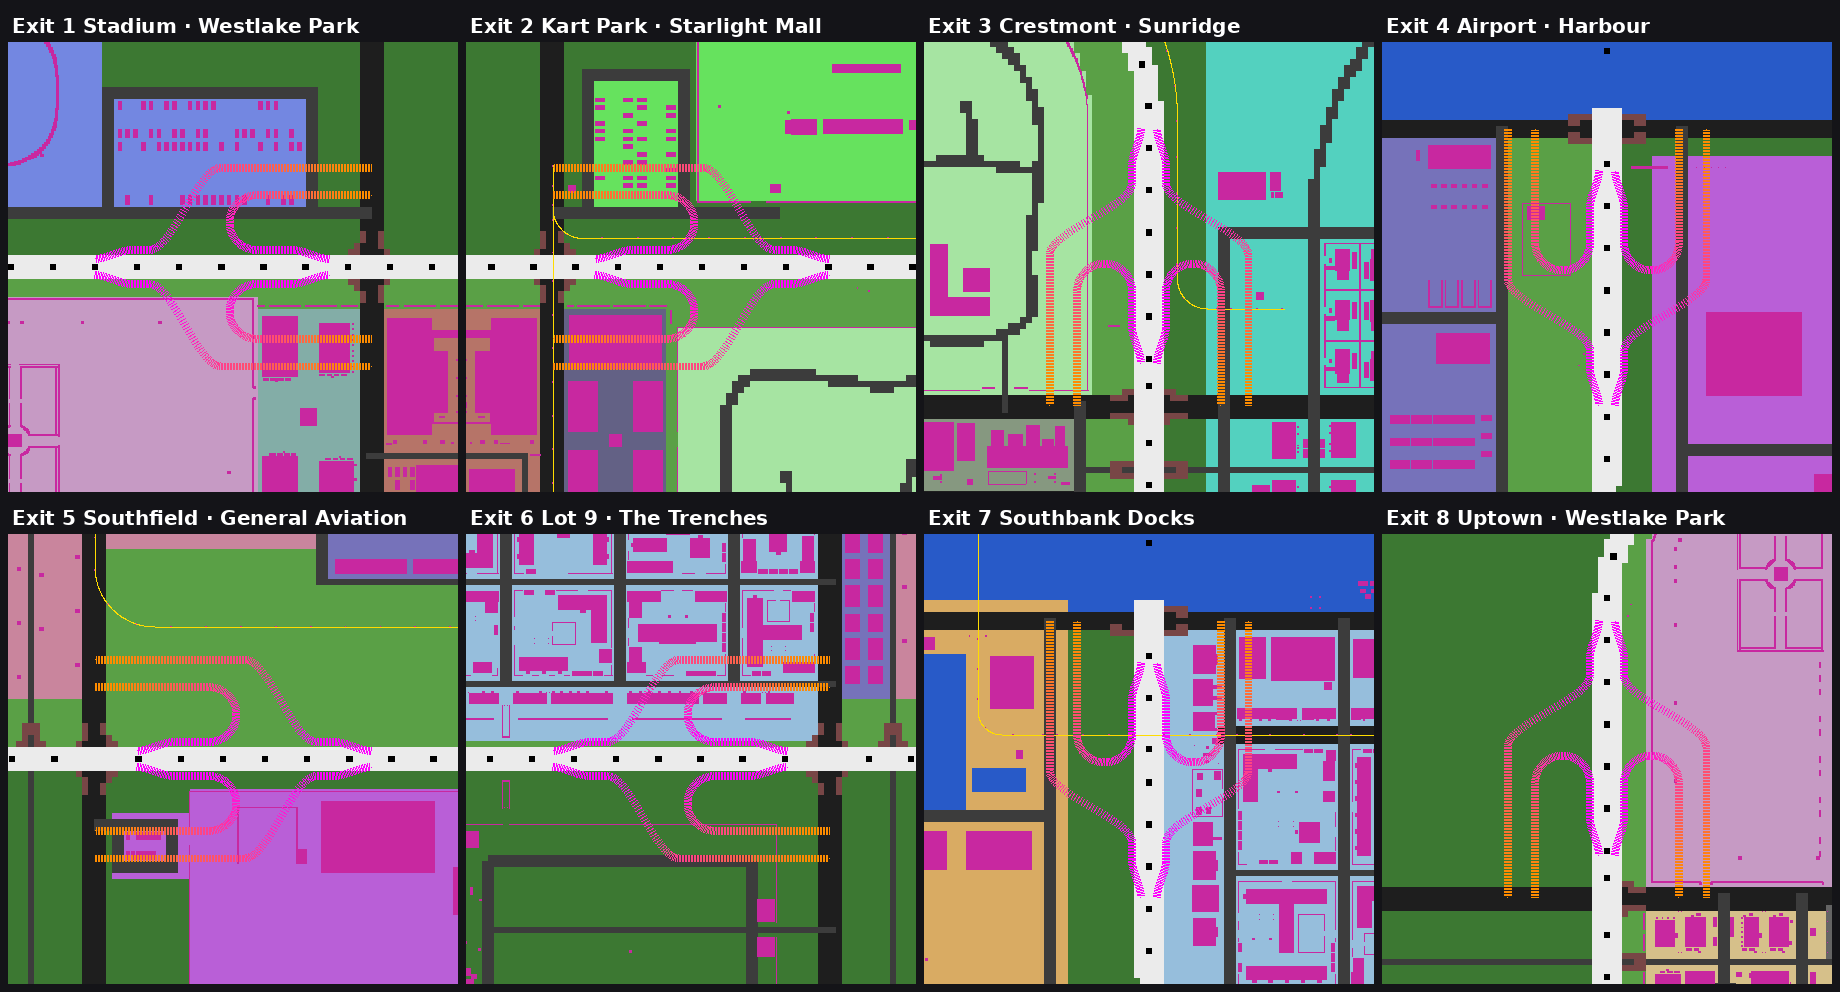
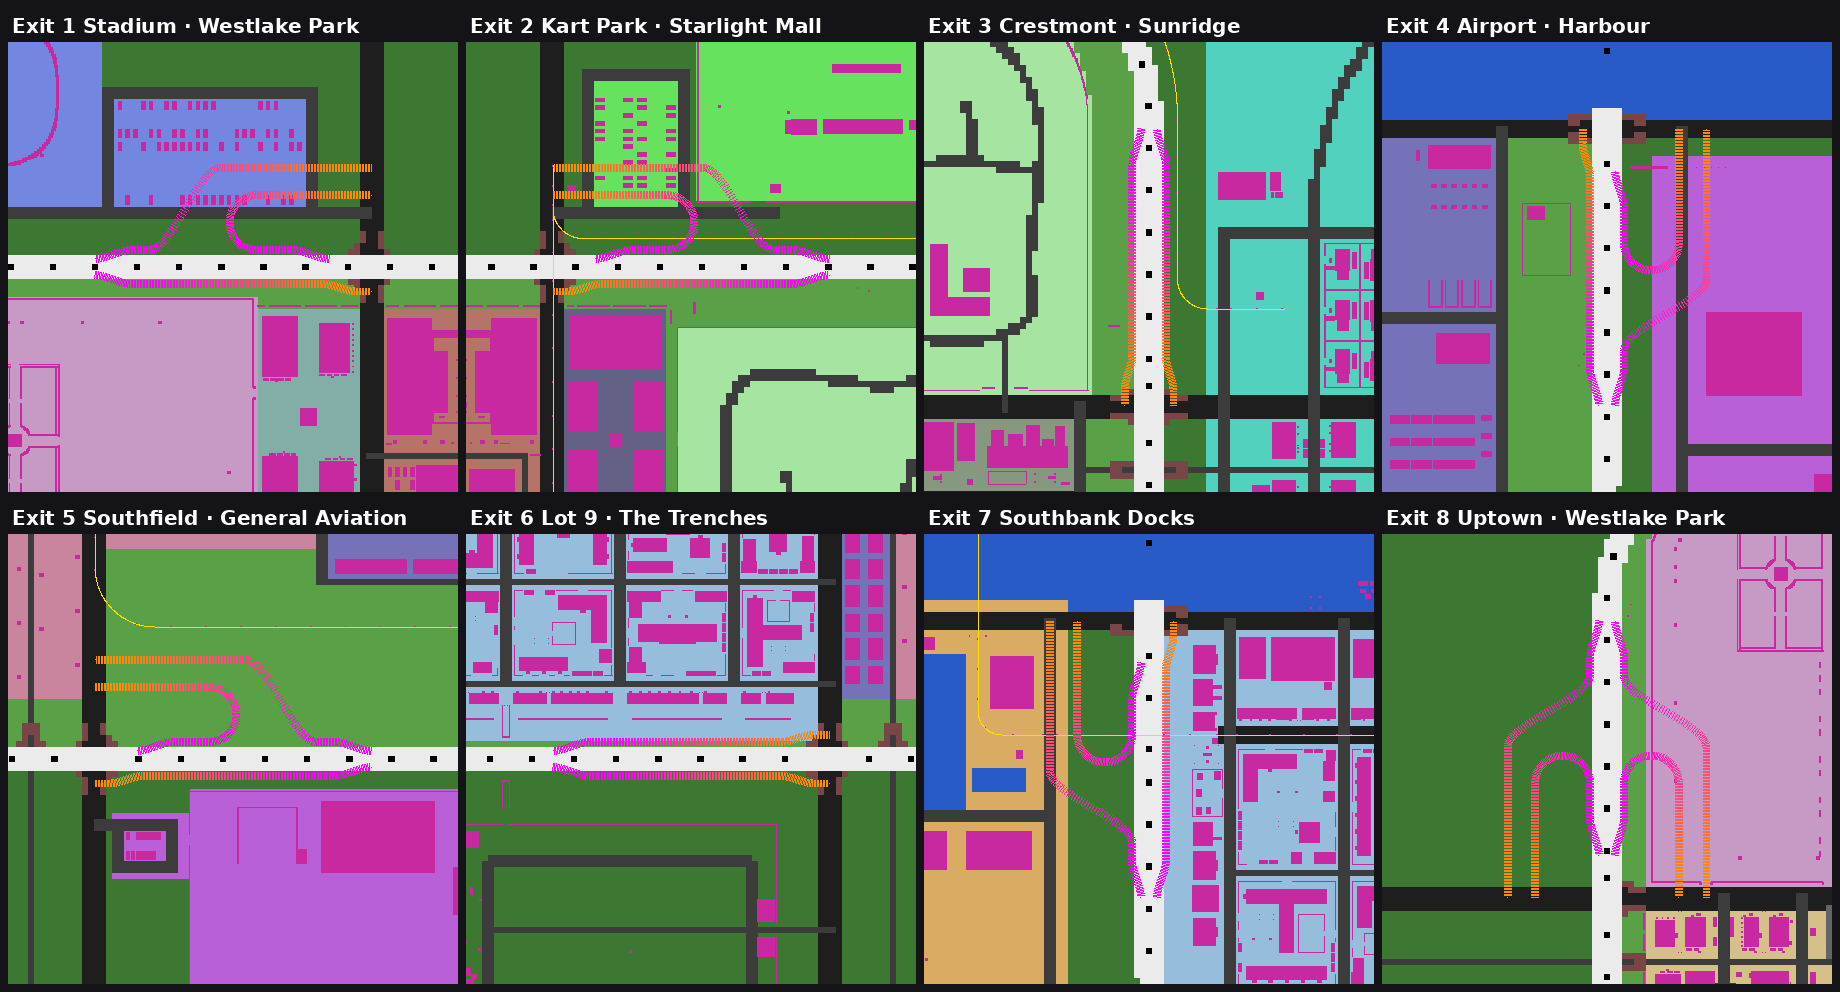
Raised highway: each exit's quadrants fitted to open land
The owner's call: only open land moves. Each quadrant of an exit is now a
full partial cloverleaf, a slip ramp alongside the deck, or none, so every
exit still gets off and on; the plan lists what moves for each.

Claude-Session: https://claude.ai/code/session_018cDkyfacaRjVFcUZ6tKWUd

diff --git a/src/scripts/city3d/viaduct.ts b/src/scripts/city3d/viaduct.ts
@@ -145,20 +145,29 @@ export interface Exit {
   name: string;
   /** The way along the ring (+1 clockwise) its ramps lie: the corner side, with room */
   side: 1 | -1;
+  /** What each quadrant holds, inside the ring and outside it (`Form`) */
+  inner: Form;
+  outer: Form;
 }
+/**
+ * A quadrant's ramps: `full`, a loop by the junction and a straight ramp round it (an off and an on); `slip`, only the
+ * straight ramp, its terminal by the deck and alongside it the whole way (where the land by the deck is narrow and
+ * what's there stays, the owner's call: open land only moves); `none`, no ramp
+ */
+export type Form = 'full' | 'slip' | 'none';
 
-/** Each exit's arterial crossing today, its names and the way its ramps lie */
-const EXIT_DATA: [string, string, Pt, string, 1 | -1][] = [
-  ['highway-ns0-1', 'ns0', [-4.5, -170], 'Stadium · Westlake Park', -1],
-  ['highway-ns3-0', 'ns3', [64.5, -170], 'Kart Park · Starlight Mall', 1],
-  ['highway-ew0-0', 'ew0', [275, -4.5], 'Crestmont · Sunridge', -1],
-  ['highway-ew4-0', 'ew4', [275, 137], 'Airport · Harbour', 1],
-  ['highway-ns3-1', 'ns3', [64.5, 320], 'Southfield · General Aviation', -1],
-  ['highway-ns0-0', 'ns0s', [-4.5, 320], 'Lot 9 · The Trenches', 1],
-  ['highway-ew4-1', 'ew4', [-215, 137], 'Southbank Docks', -1],
-  ['highway-ew0-1', 'ew0', [-215, -4.5], 'Uptown · Westlake Park', 1],
+/** Each exit's arterial crossing today, its names, the way its ramps lie and its quadrants' forms (inside, outside) */
+const EXIT_DATA: [string, string, Pt, string, 1 | -1, Form, Form][] = [
+  ['highway-ns0-1', 'ns0', [-4.5, -170], 'Stadium · Westlake Park', -1, 'slip', 'full'],
+  ['highway-ns3-0', 'ns3', [64.5, -170], 'Kart Park · Starlight Mall', 1, 'slip', 'full'],
+  ['highway-ew0-0', 'ew0', [275, -4.5], 'Crestmont · Sunridge', -1, 'slip', 'slip'],
+  ['highway-ew4-0', 'ew4', [275, 137], 'Airport · Harbour', 1, 'slip', 'full'],
+  ['highway-ns3-1', 'ns3', [64.5, 320], 'Southfield · General Aviation', -1, 'full', 'slip'],
+  ['highway-ns0-0', 'ns0s', [-4.5, 320], 'Lot 9 · The Trenches', 1, 'slip', 'slip'],
+  ['highway-ew4-1', 'ew4', [-215, 137], 'Southbank Docks', -1, 'slip', 'full'],
+  ['highway-ew0-1', 'ew0', [-215, -4.5], 'Uptown · Westlake Park', 1, 'full', 'full'],
 ];
-export const EXITS: Exit[] = EXIT_DATA.map(([crossing, street, at, name, side], i) => ({ n: i + 1, crossing, street, at, name, side }));
+export const EXITS: Exit[] = EXIT_DATA.map(([crossing, street, at, name, side, inner, outer], i) => ({ n: i + 1, crossing, street, at, name, side, inner, outer }));
 /** Each exit's place along the ring */
 export const exitS = (e: Exit) => ringS(e.at[0], e.at[1]).s;
 
@@ -177,6 +186,8 @@ export const BESIDE = DECK_HALF + RAMP_HALF;
  * it's alongside the deck (`beside`) and where it joins (`join2`); `flat` at grade by the terminal; `taper` to merge
  */
 export const QUAD = { r: 9, c: 38, join: 26, loopAt: BESIDE + 18, straightAt: BESIDE + 18 + 9.5, out: 50, beside: 74, join2: 80, flat: 5, taper: 12 };
+/** A slip ramp's terminal offset (just off the deck's edge) and where it's in alongside the deck */
+export const SLIP = { at: BESIDE + 2.5, in: 16 };
 /** How far along the ring from the junction a cloverleaf reaches */
 export const REACH = QUAD.join2 + QUAD.taper;
 
@@ -186,8 +197,8 @@ export interface Ramp {
   /** Its exit's number */
   exit: number;
   kind: RampKind;
-  /** The loop by the junction or the straight ramp round it */
-  shape: 'loop' | 'straight';
+  /** The loop by the junction, the straight ramp round it, or a slip ramp alongside the deck */
+  shape: Shape;
   /** Inside (-1) or outside (+1) the ring */
   q: 1 | -1;
   /** Its centre line the way traffic drives it: an off-ramp from the deck to its terminal, an on-ramp the other way */
@@ -204,8 +215,9 @@ const ease = (a: number, b: number, v: number) => {
   return t * t * (3 - 2 * t);
 };
 
+export type Shape = 'loop' | 'straight' | 'slip';
 /** A path in (s, o) round the quadrant, from the terminal out to where it joins the deck, every tile or so */
-function quadPath(shape: 'loop' | 'straight', q: 1 | -1): [number, number][] {
+function quadPath(shape: Shape, q: 1 | -1): [number, number][] {
   const Q = QUAD;
   const out: [number, number][] = [];
   if (shape === 'loop') {
@@ -220,9 +232,11 @@ function quadPath(shape: 'loop' | 'straight', q: 1 | -1): [number, number][] {
     }
     for (let u = Q.c - 1; u >= Q.join - Q.taper; u -= 1) out.push([u, u > Q.join ? BESIDE : BESIDE - (BESIDE - OUTER_LANE) * ease(Q.join, Q.join - Q.taper, u)]);
   } else {
-    // Out at `straightAt` past the loop, in to alongside the deck, and on to join
+    // Out at `straightAt` past the loop (a slip ramp: in from its terminal just off the deck), in to alongside the
+    // deck, and on to join
+    const [at, from, to] = shape === 'slip' ? [SLIP.at, QUAD.flat, SLIP.in] : [Q.straightAt, Q.out, Q.beside];
     for (let u = 0; u <= Q.join2 + Q.taper; u += 1) {
-      const o = Q.straightAt - (Q.straightAt - BESIDE) * ease(Q.out, Q.beside, u);
+      const o = at - (at - BESIDE) * ease(from, to, u);
       out.push([u, u <= Q.join2 ? o : BESIDE - (BESIDE - OUTER_LANE) * ease(Q.join2, Q.join2 + Q.taper, u)]);
     }
   }
@@ -261,7 +275,9 @@ function rampsOf(e: Exit): Ramp[] {
     // Away from the junction towards the corner, traffic there leaves past the junction (the loop is its off-ramp)
     // and joins from the straight ramp; coming in from the corner it leaves by the straight ramp and joins by the loop
     const away = dir === e.side;
-    for (const shape of ['loop', 'straight'] as const) {
+    const form = q < 0 ? e.inner : e.outer;
+    const shapes: Shape[] = form === 'full' ? ['loop', 'straight'] : form === 'slip' ? ['slip'] : [];
+    for (const shape of shapes) {
       const path = quadPath(shape, q);
       const world = path.map(([u, o]) => ringPoint(s0 + e.side * u, o));
       // Where it's alongside the deck and climbing no more: the loop from its turn back, the straight from `beside`

diff --git a/tests/viaduct.test.ts b/tests/viaduct.test.ts
@@ -83,15 +83,16 @@ test("each exit's ramps keep to its corner side, clear of the next arterial alon
   }
 });
 
-test('four ramps an exit: an off and an on each side of the ring, a loop by the junction and a straight ramp round it', () => {
+test("each quadrant's ramps by its form: a loop and a straight ramp round it, a slip ramp, or none; every exit gets off and on", () => {
   for (const e of EXITS) {
     const mine = RAMPS.filter((r) => r.exit === e.n);
-    assert.equal(mine.length, 4);
-    for (const q of [-1, 1]) {
+    for (const q of [-1, 1] as const) {
       const side = mine.filter((r) => r.q === q);
-      assert.deepEqual(side.map((r) => r.shape).sort(), ['loop', 'straight']);
-      assert.deepEqual(side.map((r) => r.kind).sort(), ['off', 'on']);
+      const form = q < 0 ? e.inner : e.outer;
+      assert.deepEqual(side.map((r) => r.shape).sort(), form === 'full' ? ['loop', 'straight'] : form === 'slip' ? ['slip'] : [], `exit ${e.n} ${q}`);
+      if (form === 'full') assert.deepEqual(side.map((r) => r.kind).sort(), ['off', 'on']);
     }
+    assert.ok(mine.some((r) => r.kind === 'off') && mine.some((r) => r.kind === 'on'), `exit ${e.n} gets off and on`);
   }
 });
 

diff --git a/docs/highway-plan.md b/docs/highway-plan.md
@@ -69,26 +69,28 @@ each with the owner's sign-off; keep this file up to date.
   keep clear of every street that passes under, the metro and Lot 9's tunnel;
   over the river only on the highway bridges' pier lines today (between the
   boats' lanes). Spans up to about 40 where the arterials cluster.
-- **What the ramps run into** (`docs/highway-exits-fit.png`, every exit
-  from above: the ramps orange at the ground to magenta at the deck, the
-  piers black, the districts' land in their colours, solids magenta):
-  1. Stadium: inside, Uptown North's west towers' corner and Westlake
-     Park's north-east lawn; outside, the stadium's car park, its loop and
-     Stadium Road's end.
-  2. Kart Park: inside, Palm Court's north end and Sunridge's north-west
-     corner; outside, the kart park's car park, Kart Road and its loop.
-  3. Crestmont: inside, Sunridge's east edge; outside, the Flats' west
-     blocks and the street along them (crest-ns0).
-  4. Airport: inside, the east side of Southfield Yards' ring and what's on
-     it; outside, Airport Drive and the landside beside it.
-  5. Southfield · General Aviation: inside, clear; outside, the general
-     aviation road, its loop and the airport's land beside it.
-  6. Lot 9 · The Trenches: inside, row C and Bottom Street's west end in The
-     Trenches; outside, Lot 9's north lane.
-  7. Southbank Docks: inside, The Trenches' row W (West Street's low
-     commercial) and Trench Avenue's west end; outside, the Docks' ring road.
-  8. Uptown · Westlake Park: inside, Westlake Park's west lawn; outside,
-     clear.
+- **Open land only** (the owner's call, once the fit was shown): nothing
+  built moves; parks, lawns, car parks, roads at the airport and the Docks,
+  and Lot 9's lane can. Each quadrant (inside or outside the ring) takes a
+  form (`Form` on each exit): `full` (the loop and the straight ramp), `slip`
+  (only the straight ramp, its terminal just off the deck and alongside it
+  all the way: where what stands near the deck stays), or `none`. Every exit
+  still gets off and on (the test holds it):
+
+  | Exit | Inside | Outside | What moves for it (Phase 1b) |
+  | :-- | :-- | :-- | :-- |
+  | 1 Stadium · Westlake Park | slip | full | the stadium's car park, its loop and Stadium Road's east end |
+  | 2 Kart Park · Starlight Mall | slip | full | the kart park's car park, its loop, Kart Road's west end |
+  | 3 Crestmont · Sunridge | slip | slip | nothing |
+  | 4 Airport · Harbour | slip | full | Airport Drive's north end and the landside beside it |
+  | 5 Southfield · General Aviation | full | slip | nothing |
+  | 6 Lot 9 · The Trenches | slip | slip | a strip of The Trenches' car park and trees along the highway |
+  | 7 Southbank Docks | slip | full | the Docks' ring road (Dock Road) by the highway; the same Trenches strip |
+  | 8 Uptown · Westlake Park | full | full | Westlake Park's west edge (lawn, wall, ring walk) |
+
+  The metro's pillars by exits 2 and 7 go with the metro's rise over the
+  deck in Phase 2 (its pillars are placed clear of every road, the ramps
+  among them). `docs/highway-exits-fit.png` shows each exit as it is now.
 - **The metro** crosses the ring four times (the main line at Kart Park,
   where it comes over from the Trenches to the Docks, where it comes back
   over the north bank avenue into Uptown, and the airport branch), each
@@ -98,11 +100,10 @@ each with the owner's sign-off; keep this file up to date.
 
 ## Phases
 
-1. **The shape as data** (above, built). Then, with the owner's sign-off on
-   the moves: **1b, making room**: each exit's land cleared by moving the
-   district edges listed above (their data, the snapshot rewritten on
-   purpose), and a test that every ramp keeps clear of every block, street,
-   solid and the water.
+1. **The shape as data** (above, built). Then **1b, making room** (signed
+   off: open land only): the moves in the table above, exit by exit (their
+   data, the snapshot rewritten on purpose), and a test that every ramp
+   keeps clear of every block, street, solid and the water.
 2. **The viaduct drawn and the ring raised:** the deck, piers, parapets,
    median barrier, lamps and joints; the street-level asphalt, median,
    lamps, junctions and slip lanes taken out (every arterial now passes
